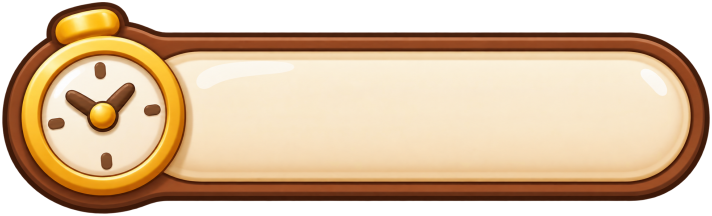
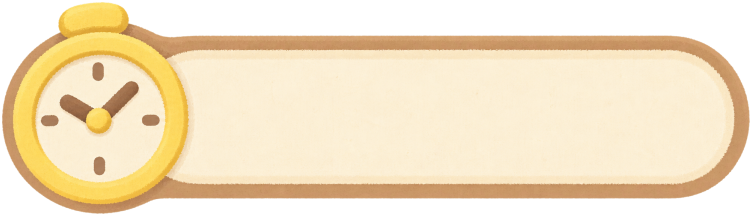
Cozy: thay nút tạm dừng và khung đồng hồ, chữ giờ nằm giữa phần nền kem
Ảnh được làm sạch nền, cắt sát viền, thu cỡ. Vùng chữ đo trên chính ảnh timer (kem từ x 190→733,
y 50→182 trên 752×216) và quy ra em theo khung, vì padding phần trăm CSS tính theo khung cha.

diff --git a/src/styles/main.css b/src/styles/main.css
@@ -434,9 +434,13 @@ html[data-art="casual"] .boost{border:2.5px solid var(--ink)}
 .pause.has-art svg{display:none}
 .pause.has-art:active{box-shadow:none}
 /* đồng hồ nằm trong khung gỗ có mặt đồng hồ bên trái; chữ dồn sang phần trống bên phải */
+/* Chữ nằm giữa đúng phần nền kem trống bên phải mặt đồng hồ, đo trên ảnh timer.png (752×216):
+   kem chạy từ x 190→733, y 50→182. Khung rộng 6.6em nên quy ra em theo chính khung (padding
+   phần trăm thì CSS tính theo khung CHA, lệch hẳn): trái 190/752·6.6 = 1.67em, phải 0.16em,
+   trên 50/752·6.6 = 0.44em, dưới 34/752·6.6 = 0.3em. */
 .timer.has-art{background:var(--art) center/100% 100% no-repeat;box-shadow:none;border-radius:0;
-  width:6.4em;aspect-ratio:712/216;padding:0 0 0 1.6em;display:grid;place-items:center;
-  font-size:1.35em;color:#5A3A22}
+  width:6.6em;height:1.9em;padding:.44em .16em .3em 1.67em;display:grid;place-items:center;
+  font-size:1.35em;line-height:1;color:#5A3A22}
 .timer.has-art.urgent{background:var(--art) center/100% 100% no-repeat;color:#D23B3B;box-shadow:none}
 .boost.has-art{background:none;box-shadow:none;padding:0;gap:.1em}
 .boost.has-art .ic{width:4.2em;height:4.2em;background:var(--art) center/contain no-repeat}
